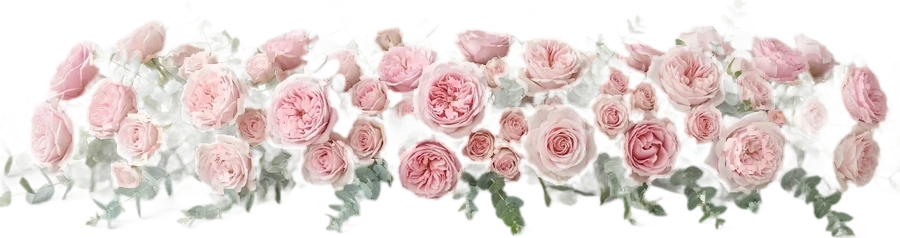
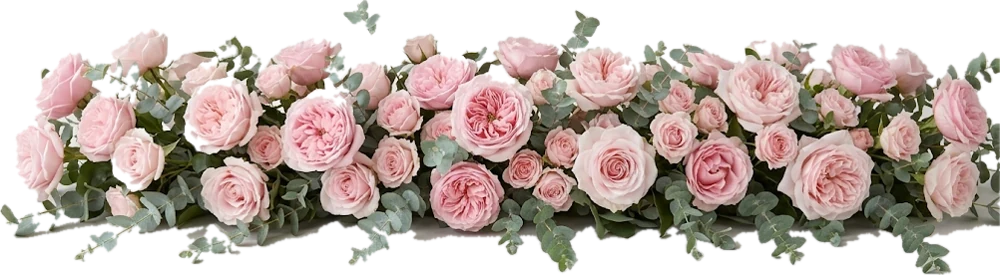
t32: rose pieces no longer clipped, cleaner garland cut-out, the bouquet lifts off and lands as itself with a petal burst
Claude-Session: https://claude.ai/code/session_01V4RDDV9jqM6BBijw6Ese9L

diff --git a/my-wed/design/t32/journey.html b/my-wed/design/t32/journey.html
@@ -246,8 +246,8 @@
         opacity: 1;
         transform: none;
         filter: none;
-        clip-path: circle(80% at var(--o, 50% 50%));
-        -webkit-clip-path: circle(80% at var(--o, 50% 50%));
+        clip-path: circle(200% at var(--o, 50% 50%));
+        -webkit-clip-path: circle(200% at var(--o, 50% 50%));
       }
       /* the bouquet that carries the flowers from one section to the next */
       .traveller {
@@ -323,12 +323,12 @@
       <span class="amp">&amp;</span>
       <h1 class="names">Khánh Linh</h1>
       <div class="dateline" style="margin-top: 22px"><span style="text-align: right">Thứ Bảy</span><b>26</b><span style="text-align: left">Tháng 12<br />2026</span></div>
-      <div class="live" style="--o: 50% 40%; width: 236px; margin: 46px auto 0"><img class="sway" src="art/bouquet.webp" alt="" style="display: block; width: 100%" /></div>
+      <div class="live" data-bouquet style="--o: 50% 40%; width: 236px; margin: 46px auto 0"><img class="sway" src="art/bouquet.webp" alt="" style="display: block; width: 100%" /></div>
     </section>
 
     <!-- 2 · families, names, invitation; the bouquet rests bottom right -->
     <section>
-      <div class="art live" style="--o: 100% 0%; width: 170px; right: -6px; top: 14px"><img src="art/corner.webp" alt="" style="display: block; width: 100%; transform: scaleX(-1)" /></div>
+      <div class="art live" style="--o: 100% 0%; width: 140px; right: -4px; top: 4px"><img src="art/corner.webp" alt="" style="display: block; width: 100%; transform: scaleX(-1)" /></div>
       <p class="caps" style="padding: 150px 34px 0">Trân trọng báo tin lễ thành hôn của con chúng tôi</p>
       <div style="display: flex; justify-content: center; gap: 18px; margin-top: 22px; font-size: 15px; line-height: 1.7">
         <div><p class="caps" style="font-size: 9px">Nhà trai</p><p>Ông Nguyễn Văn Hùng</p><p>Bà Trần Thị Mai</p></div>
@@ -429,7 +429,7 @@
       <p class="script" style="margin-top: 30px; font-size: 52px">Trân trọng cảm ơn</p>
       <p class="caps" style="margin-top: 4px; color: var(--ink)">Đức Minh · Khánh Linh</p>
       <p class="lead muted" style="margin-top: 8px">Sự hiện diện của bạn là niềm hạnh phúc<br />của gia đình chúng tôi</p>
-      <div class="live" style="--o: 50% 40%; width: 150px; margin: 20px auto 0"><img class="sway" src="art/bouquet.webp" alt="" style="display: block; width: 100%" /></div>
+      <div class="live" data-bouquet style="--o: 50% 40%; width: 150px; margin: 20px auto 0"><img class="sway" src="art/bouquet.webp" alt="" style="display: block; width: 100%" /></div>
     </section>
 
     <script>
@@ -485,37 +485,62 @@
       let current = 0;
       let busy = false;
       pieces[0].classList.add("here");
+      // a bouquet piece needs no fold or bloom: the flying bouquet simply leaves it or lands as it
+      const swap = (el, on) => {
+        el.style.transition = "none";
+        el.classList.toggle("here", on);
+        el.getBoundingClientRect();
+        el.style.transition = "";
+      };
       const go = (to) => {
         busy = true;
         const from = pieces[current];
         const dest = pieces[to];
-        // 1 · the old piece folds back into the bouquet (at the screen edge if it has scrolled away)
         const a = view(from);
         a.y = Math.min(innerHeight - 120, Math.max(120, a.y));
         traveller.style.transition = "none";
-        put(a.x, a.y, Math.min(1.6, a.w / W), 0);
-        traveller.getBoundingClientRect();
-        from.classList.remove("here");
-        traveller.style.transition = "opacity 0.3s, transform 0.4s ease-out";
-        put(a.x, a.y, 1, 1);
+        if (from.hasAttribute("data-bouquet")) {
+          // 1 · the bouquet lifts straight off its place
+          put(a.x, a.y, a.w / W, 1);
+          swap(from, false);
+          traveller.getBoundingClientRect();
+          traveller.style.transition = "transform 0.4s ease-out";
+          put(a.x, a.y, 1, 1);
+        } else {
+          // 1 · the old piece folds back into the bouquet (at the screen edge if it has scrolled away)
+          put(a.x, a.y, Math.min(1.6, a.w / W), 0);
+          traveller.getBoundingClientRect();
+          from.classList.remove("here");
+          traveller.style.transition = "opacity 0.3s, transform 0.4s ease-out";
+          put(a.x, a.y, 1, 1);
+        }
         // 2 · it flies along an arc to the new piece, tracking it as the page moves
         setTimeout(() => {
           traveller.style.transition = "none";
           const t0 = performance.now();
+          const land = dest.hasAttribute("data-bouquet");
           const fly = (now) => {
             const p = Math.min(1, (now - t0) / 1200);
             const e = ease(p);
             const b = view(dest);
             const x = a.x + (b.x - a.x) * e;
             const y = a.y + (b.y - a.y) * e - Math.sin(Math.PI * p) * 70;
-            put(x, y, 1 + Math.sin(Math.PI * p) * 0.12, 1);
+            const size = land ? 1 + (b.w / W - 1) * e : 1;
+            put(x, y, size + Math.sin(Math.PI * p) * 0.12, 1);
             traveller.style.transform += ` rotate(${Math.sin(Math.PI * p * 2) * 10}deg)`;
             if (p < 1) return requestAnimationFrame(fly);
-            // 3 · it bursts into petals and the new piece blooms in its place
-            traveller.style.transition = "opacity 0.45s, transform 0.45s";
-            put(b.x, b.y, 1.35, 0);
-            burst(b.x, b.y, 16);
-            dest.classList.add("here");
+            if (land) {
+              // 3 · the bouquet lands as itself and only throws its petals
+              swap(dest, true);
+              traveller.style.opacity = 0;
+              burst(b.x, b.y, 18);
+            } else {
+              // 3 · it bursts into petals and the new piece blooms in its place
+              traveller.style.transition = "opacity 0.45s, transform 0.45s";
+              put(b.x, b.y, 1.35, 0);
+              burst(b.x, b.y, 16);
+              dest.classList.add("here");
+            }
             setTimeout(() => {
               current = to;
               busy = false;
